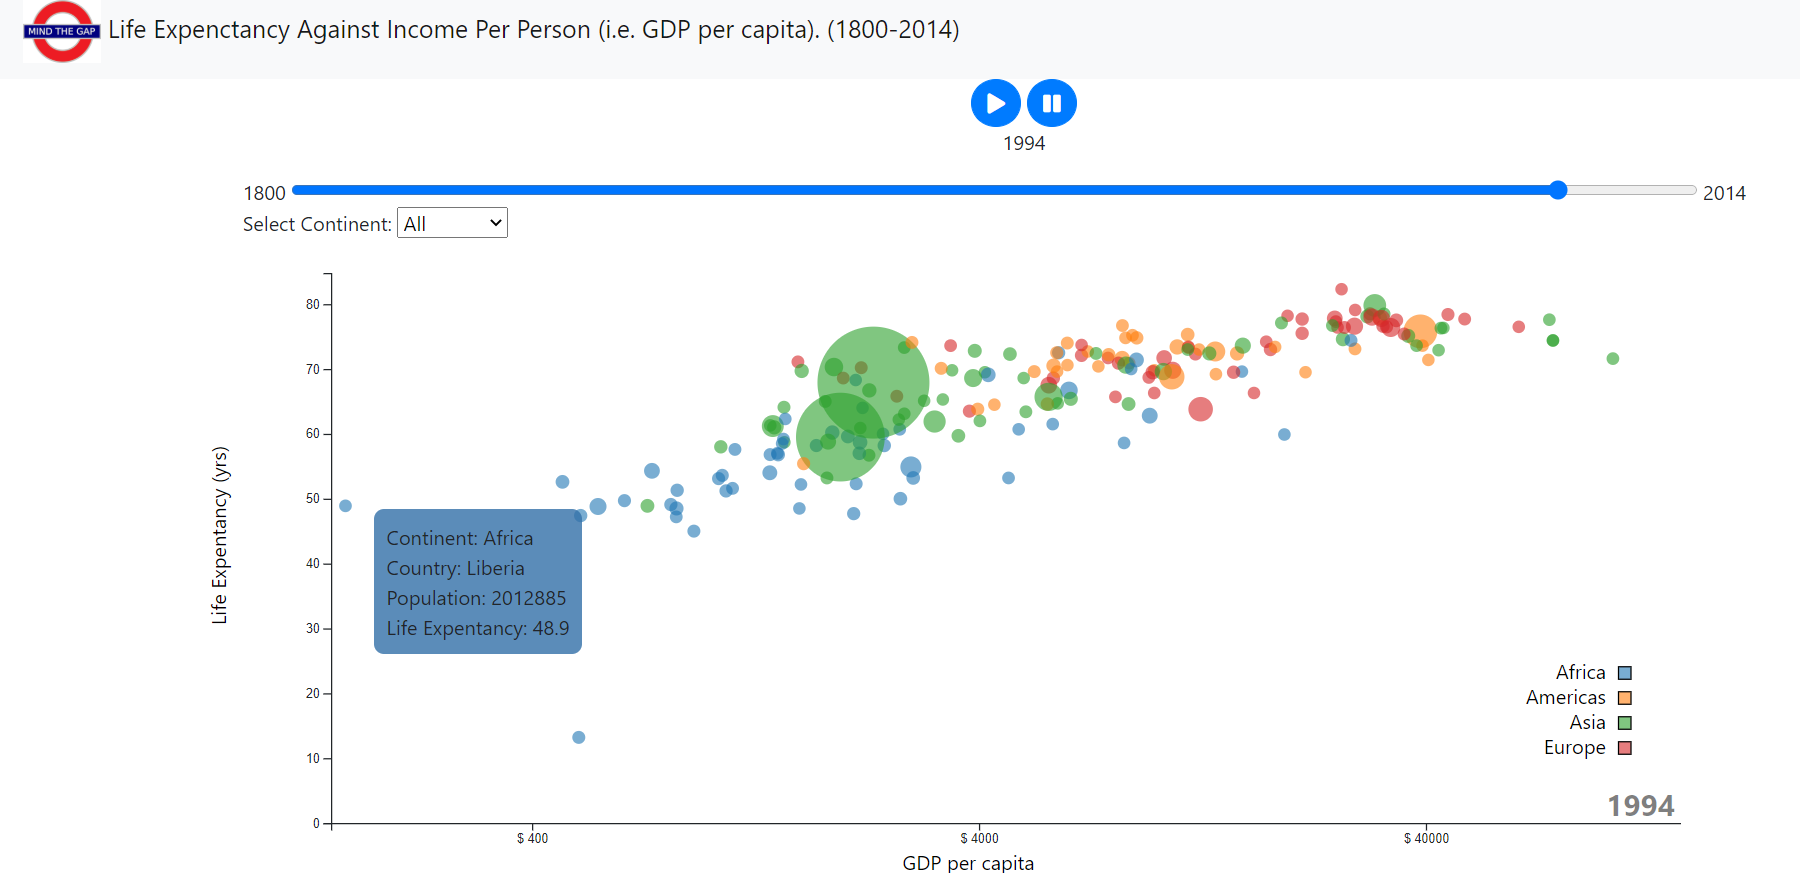
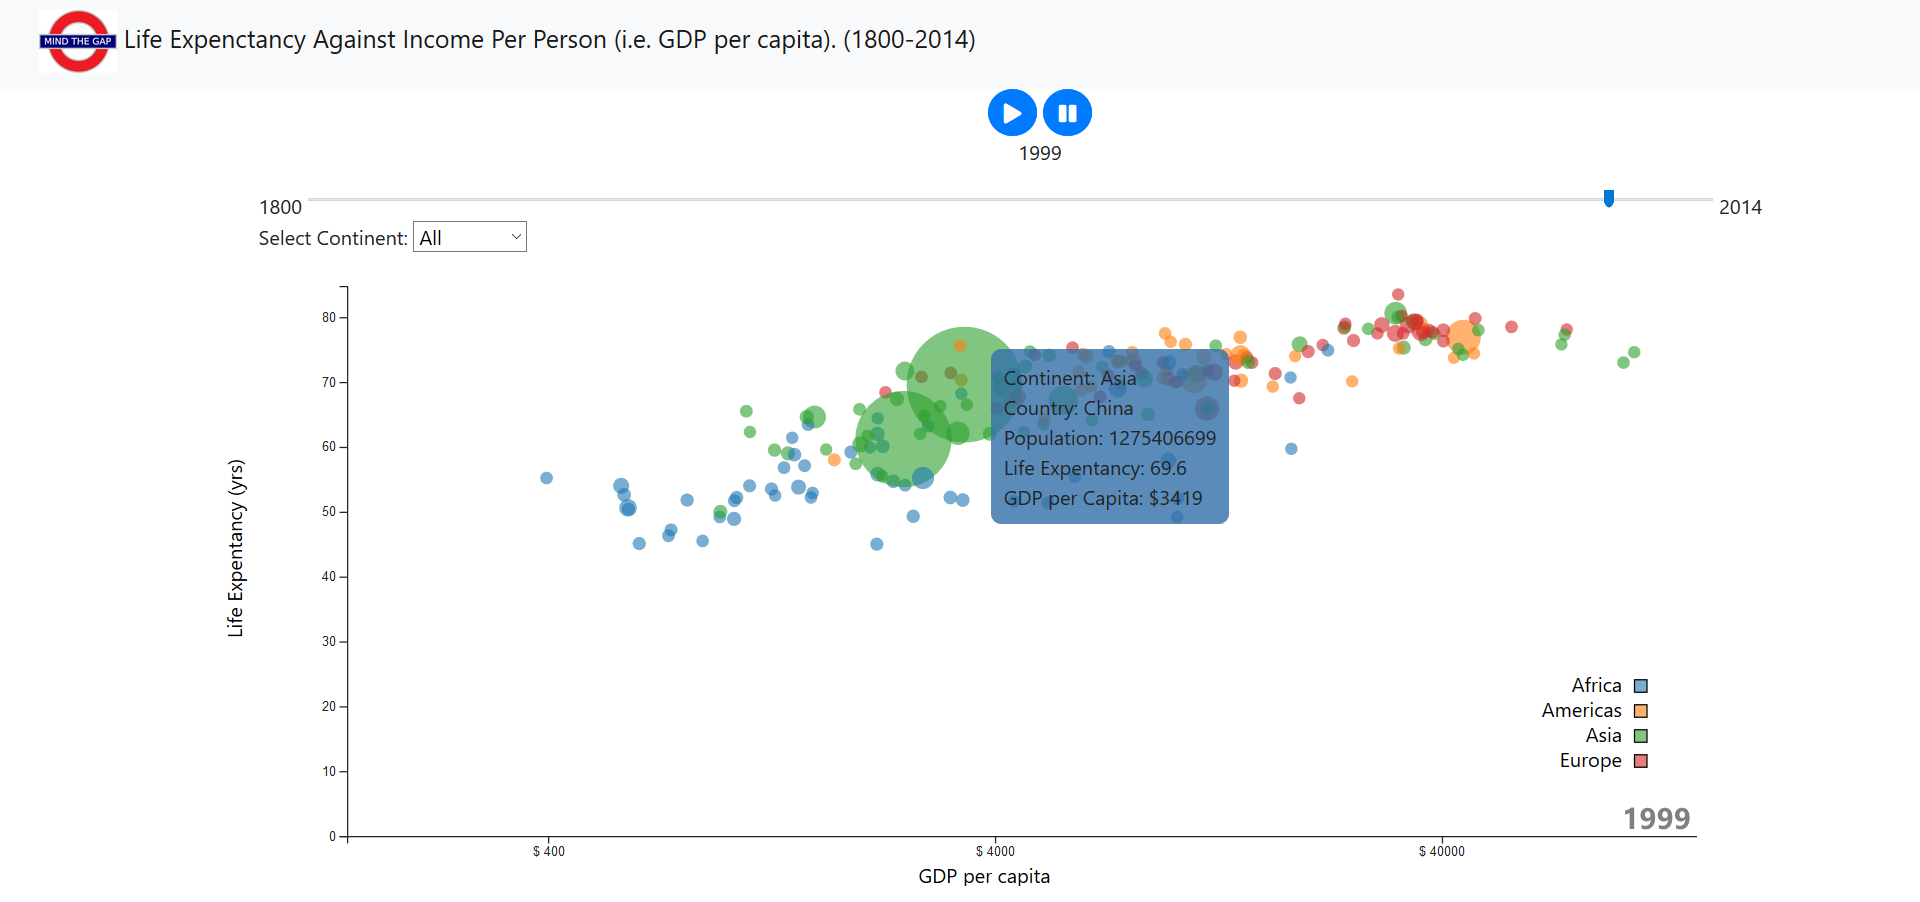
added income on tooltip

diff --git a/js/main.js b/js/main.js
@@ -194,7 +194,8 @@ $(document).ready( function () {
 						"Continent: " + continent + "<br>"
 						+"Country: " + d.country + "<br>"
 						+"Population: " + d.population + "<br>"
-						+"Life Expentancy: " + d.life_exp
+						+"Life Expentancy: " + d.life_exp + "<br>"
+						+ "GDP per Capita: " + "$" + d.income
 						)
 							.style("left", (d3.event.pageX + 20)+ "px")
 							.style("top", (d3.event.pageY) + "px")
